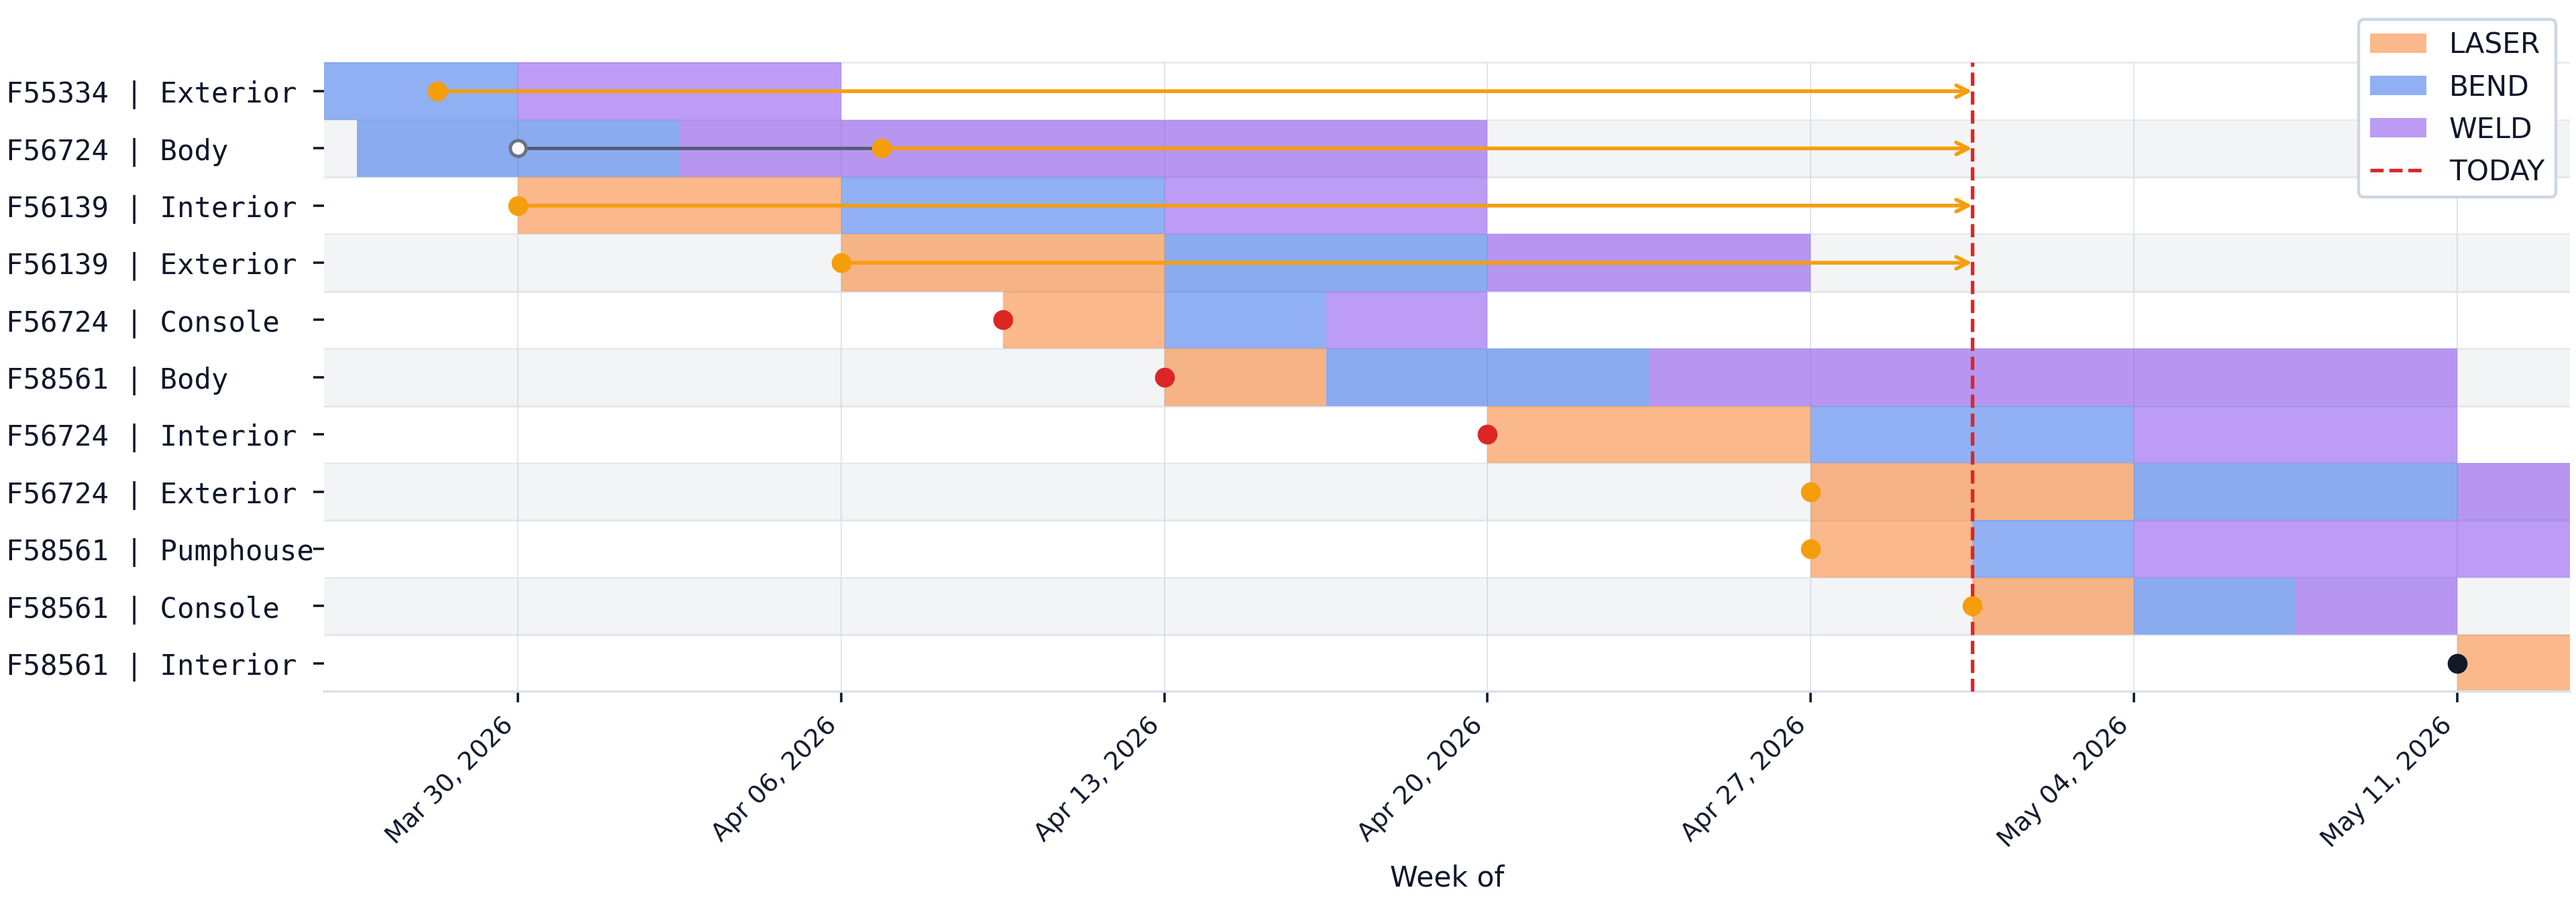
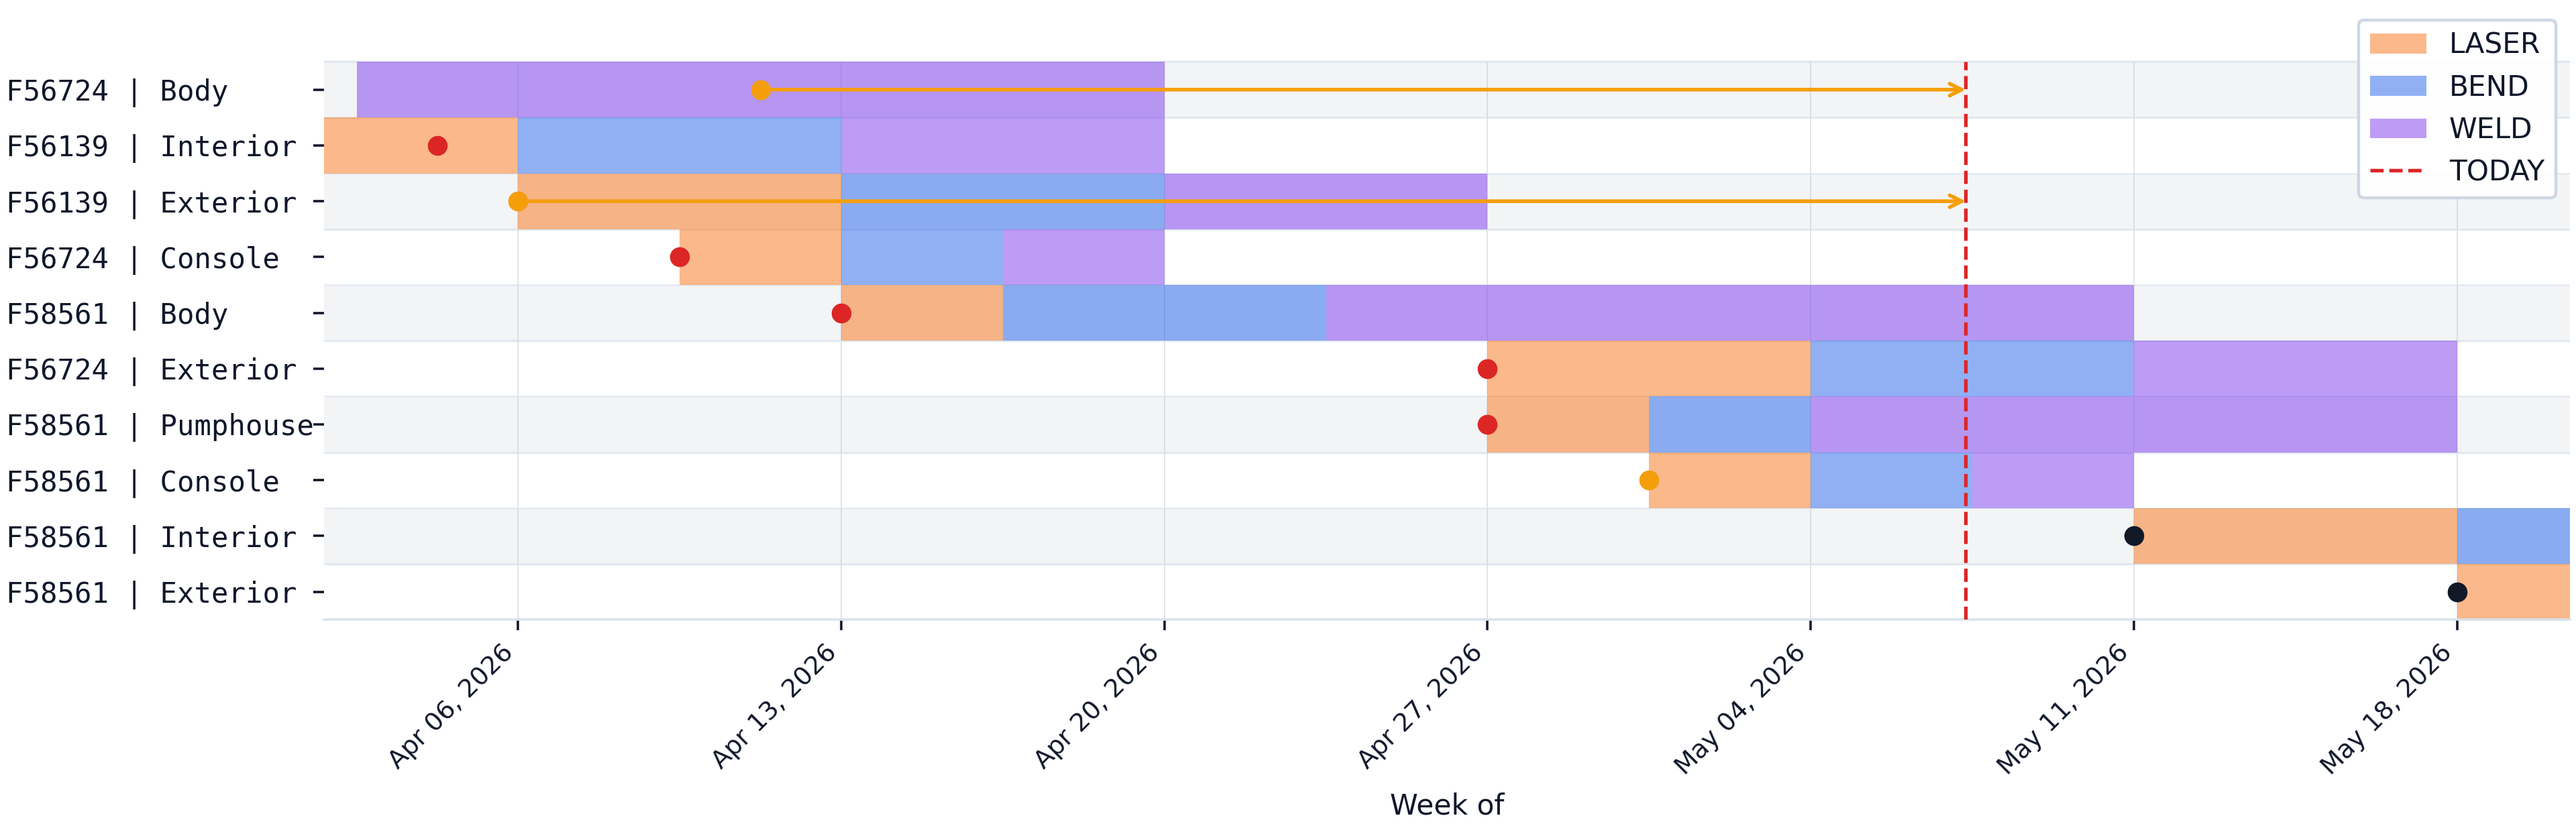
Checkpoint workspace changes

diff --git a/_runtime/published/summary.html b/_runtime/published/summary.html
@@ -17,20 +17,20 @@
 </head>
 <body>
   <h1>Fabrication Status</h1>
-  <div class="meta">Published: 2026-04-30 12:59 Eastern Summer Time<br/>Confirmed published snapshot.</div>
+  <div class="meta">Published: 2026-05-07 08:55 Eastern Summer Time<br/>Confirmed published snapshot.</div>
   <section class="card">
     <h2>Top Summary</h2>
-    <table><tr><th>Active Trucks</th><td>4</td></tr><tr><th>Laser</th><td>low</td></tr><tr><th>Bend Buffer</th><td>healthy</td></tr><tr><th>Weld A</th><td>watch</td></tr><tr><th>Weld B</th><td>healthy</td></tr><tr><th>Kits Behind Schedule</th><td>10</td></tr><tr><th>Blocked Kits</th><td>0</td></tr></table>
+    <table><tr><th>Active Trucks</th><td>3</td></tr><tr><th>Laser</th><td>low</td></tr><tr><th>Bend Buffer</th><td>healthy</td></tr><tr><th>Weld A</th><td>low</td></tr><tr><th>Weld B</th><td>low</td></tr><tr><th>Kits Behind Schedule</th><td>8</td></tr><tr><th>Blocked Kits</th><td>1</td></tr></table>
   </section>
   <section class="card">
     <h2>Risk Summary</h2>
-    <ul><li><strong>Engineering release is holding work start</strong>: 6 kit(s) past planned start; oldest 3 weeks late (F56724 Console).</li></ul>
+    <ul><li><strong>Engineering release is holding work start</strong>: 5 kit(s) past planned start; oldest 4 weeks late (F56724 Console).</li></ul>
   </section>
   <section class="card">
     <h2>Per-Truck Summary</h2>
     <table>
       <tr><th>Truck</th><th>Main Kit Stage</th><th>Sync State</th><th>Issue</th></tr>
-      <tr><td>F55334</td><td>Complete</td><td>In Sync</td><td>1 kit(s) behind master schedule.</td></tr><tr><td>F56139</td><td>Complete</td><td>In Sync</td><td>2 kit(s) behind master schedule.</td></tr><tr><td>F56724</td><td>Weld</td><td>Behind</td><td>3 kit(s) late release.</td></tr><tr><td>F58561</td><td>Release</td><td>Behind</td><td>3 kit(s) late release.</td></tr>
+      <tr><td>F56139</td><td>Complete</td><td>In Sync</td><td>1 blocked kit(s).</td></tr><tr><td>F56724</td><td>Weld</td><td>Behind</td><td>2 kit(s) late release.</td></tr><tr><td>F58561</td><td>Release</td><td>Behind</td><td>3 kit(s) late release.</td></tr>
     </table>
   </section>
 </body>
